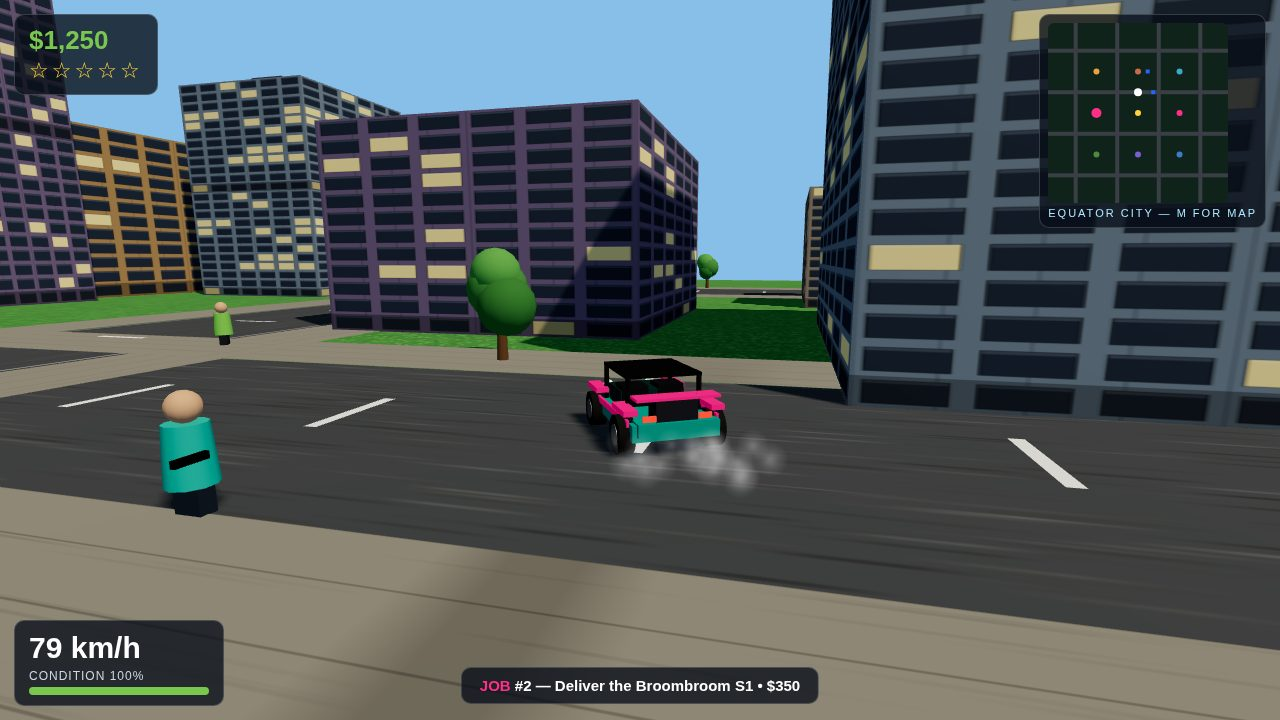
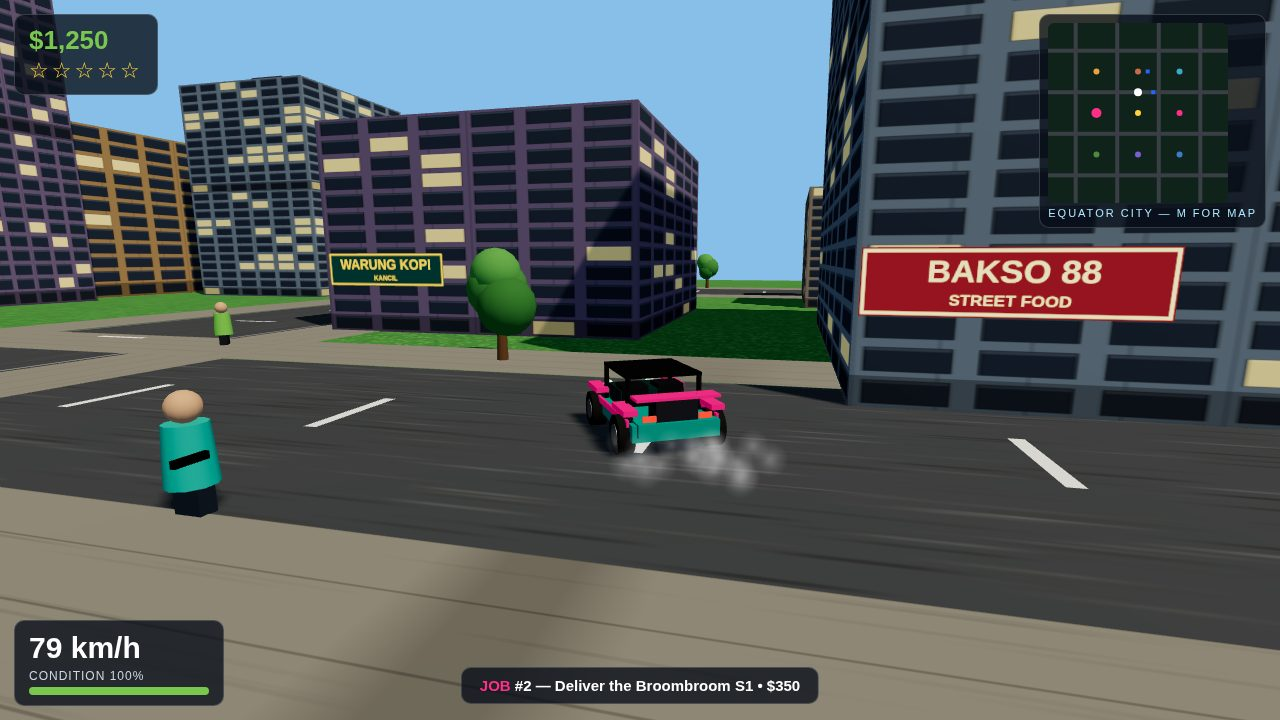
gta6-01 revision-2: R2 lessons — emissive windows, blade neon, real shop signs
- facadeTextures(): shared lit-window grid drawn to colour + emissive
  maps; buildings use emissiveMap (night 0.7 / day 0.08) — windows
  genuinely glow at night instead of relying on ambient light.
- Forced avenue neon (NEON / BAR 24H) now blade signs rotY -PI/2,
  faces turned west toward the night camera — readable frontally.
- Deterministic cover shop signs on REAL building south faces
  (WARUNG KOPI + BAKSO 88), two different buildings, both fully
  in frame; debug proved the first attempt stacked both signs on
  one face at the frame edge. No flips anywhere.
- Scores (full + 300px): cover 9/8.5, start 8/8, night 8.5/8, map 8/8.

diff --git a/game/src/city.js b/game/src/city.js
@@ -2,7 +2,7 @@
 // Grid city, real facades with lit windows, upright shop signs, neon at night,
 // streetlight pools, trees, park + plaza, 9 districts, 7 story jobs.
 import * as THREE from 'three';
-import { asphaltTexture, pavementTexture, grassTexture, facadeTexture, signTexture, neonTexture, lightPoolTexture } from './textures.js';
+import { asphaltTexture, pavementTexture, grassTexture, facadeTextures, signTexture, neonTexture, lightPoolTexture } from './textures.js';
 import { buildVehicle } from './vehicles.js';
 
 export const DISTRICTS = [
@@ -40,16 +40,23 @@ const SHOPS = [
 
 const NEONS = ['NEON', 'BAR 24H', 'KARAOKE', 'RAMEN', 'DISCO', 'HOTEL'];
 
-function building(scene, rng, night, x, z, w, d, h, base) {
-  const tex = facadeTexture(base, rng, night ? 0.55 : 0.14, night);
+function building(scene, rng, night, x, z, w, d, h, base, registry) {
+  const { map: tex, emissive } = facadeTextures(base, rng, night ? 0.55 : 0.14, night);
   tex.wrapS = THREE.RepeatWrapping; tex.wrapT = THREE.RepeatWrapping;
   tex.repeat.set(Math.max(1, Math.round(w / 12)), Math.max(1, Math.round(h / 14)));
-  const side = new THREE.MeshStandardMaterial({ map: tex, roughness: 0.85 });
+  emissive.wrapS = THREE.RepeatWrapping; emissive.wrapT = THREE.RepeatWrapping;
+  emissive.repeat.copy(tex.repeat);
+  // R2 lesson: lit windows need a real emissive map, not just a bright texture.
+  const side = new THREE.MeshStandardMaterial({
+    map: tex, emissiveMap: emissive, emissive: 0xffffff,
+    emissiveIntensity: night ? 0.7 : 0.08, roughness: 0.85,
+  });
   const roof = new THREE.MeshStandardMaterial({ color: 0x565660, roughness: 0.95 });
   const m = new THREE.Mesh(new THREE.BoxGeometry(w, h, d), [side, side, roof, roof, side, side]);
   m.position.set(x, h / 2, z);
   m.castShadow = true; m.receiveShadow = true;
   scene.add(m);
+  if (registry) registry.push({ x, z, w, d, h });
   // rooftop box (AC / water tank) so roofs are not flat slabs
   if (rng.chance(0.7)) {
     const box = new THREE.Mesh(new THREE.BoxGeometry(w * 0.25, 1.2, d * 0.25),
@@ -173,6 +180,7 @@ export function buildCity(scene, rng, night) {
   const trafficSpots = [];
   const pedSpots = [];
   const parked = [];
+  const buildings = [];
   let shopIdx = 0, neonIdx = 0;
   for (const bx of [-60, 0, 60]) {
     for (const bz of [-60, 0, 60]) {
@@ -187,7 +195,7 @@ export function buildCity(scene, rng, night) {
       for (let i = 0; i < n; i++) {
         const w = rng.range(14, 22), d = rng.range(14, 22), h = rng.range(9, 30);
         const x = bx + rng.range(-18, 18), z = bz + rng.range(-18, 18);
-        building(scene, rng, night, x, z, w, d, h, rng.pick(bases));
+        building(scene, rng, night, x, z, w, d, h, rng.pick(bases), buildings);
       }
       // One shop sign per block, on the face toward the nearest road (upright).
       const shop = SHOPS[shopIdx++ % SHOPS.length];
@@ -209,22 +217,46 @@ export function buildCity(scene, rng, night) {
         p.rotation.y = p.position.z > bz ? 0 : Math.PI;
         scene.add(p);
       }
-      // Guaranteed neon on the avenue for the night shot: south face of the
-      // Distrik Neon block, facing the road (and the night camera).
+      // Guaranteed neon on the avenue for the night shot: blade signs jutting
+      // from the south facades, faces turned WEST (-x) toward the night camera
+      // approaching down the avenue (R2 lesson: neon must face the camera —
+      // a sign facing -z reads edge-on and skewed from this angle).
       if (night && bx === 60 && bz === 0) {
         const p = new THREE.Mesh(new THREE.PlaneGeometry(9, 2.2),
           new THREE.MeshBasicMaterial({ map: neonTexture('NEON', '#ff2e88'), transparent: true }));
         p.position.set(62, 4.6, -24.2);
-        p.rotation.y = Math.PI;
+        p.rotation.y = -Math.PI / 2;
         scene.add(p);
         const p2 = new THREE.Mesh(new THREE.PlaneGeometry(8, 2),
           new THREE.MeshBasicMaterial({ map: neonTexture('BAR 24H', '#22e6ff'), transparent: true }));
         p2.position.set(74, 4.2, -24.2);
-        p2.rotation.y = Math.PI;
+        p2.rotation.y = -Math.PI / 2;
         scene.add(p2);
       }
     }
   }
+
+  // Deterministic shop signs for the cover shot, mounted on REAL building
+  // south faces flanking the cover avenue (z = -30). Upright, facing the
+  // camera (rotY 0 = faces +z) — never a -x/-z flip (R2 proved flips change
+  // nothing; facing is what matters). Two DIFFERENT buildings, both inside
+  // the cover frame (|x| <= 25); the sign on the wide face is shifted toward
+  // the camera axis so it is fully in frame, not half-cut at the edge.
+  const pickFace = (nearX, used) => {
+    let best = null, bestScore = Infinity;
+    for (const b of buildings) {
+      if (used && b.x === used.x && b.z === used.z) continue;
+      const face = b.z + b.d / 2; // south face, toward the avenue
+      if (face > -24.5 || face < -50 || Math.abs(b.x) > 25) continue;
+      const score = Math.abs(b.x - nearX) + Math.abs(face + 30) * 2;
+      if (score < bestScore) { bestScore = score; best = { x: b.x, z: b.z, w: b.w, face }; }
+    }
+    return best;
+  };
+  const f1 = pickFace(-14, null);
+  if (f1) shopSign(scene, Math.max(f1.x - 5, f1.x - f1.w / 2 + 3.6), 3.4, f1.face + 0.3, 0, SHOPS[0]);
+  const f2 = pickFace(16, f1);
+  if (f2) shopSign(scene, Math.max(f2.x - 5, f2.x - f2.w / 2 + 3.6), 3.4, f2.face + 0.3, 0, SHOPS[5]);
 
   // Plaza Merdeka fountain.
   const basin = new THREE.Mesh(new THREE.CylinderGeometry(7, 7.5, 1, 24),

diff --git a/game/src/textures.js b/game/src/textures.js
@@ -50,35 +50,48 @@ export function grassTexture(rng) {
   });
 }
 
-// Building facade: window grid. litRatio = fraction of windows glowing warm.
-// Day: mostly dark glass, few lit. Night: most lit warm yellow.
-export function facadeTexture(base, rng, litRatio, night) {
-  return canvasTex(256, 512, (g, w, h) => {
-    g.fillStyle = base; g.fillRect(0, 0, w, h);
-    // subtle vertical panel shading
-    for (let x = 0; x < w; x += 32) {
-      g.fillStyle = 'rgba(0,0,0,0.08)'; g.fillRect(x, 0, 2, h);
-    }
-    const cols = 6, rows = 12;
+// Building facade: window grid, drawn ONCE into two canvases sharing the same
+// lit-window pattern — colour map + emissive map (black except lit windows).
+// R2 lesson: swapping the night texture alone is NOT enough; windows need a
+// real emissive map or they stay dark.
+export function facadeTextures(base, rng, litRatio, night) {
+  const cols = 6, rows = 12;
+  const lit = [];
+  for (let r = 0; r < rows; r++) {
+    lit.push([]);
+    for (let c = 0; c < cols; c++) lit[r].push(rng.chance(litRatio));
+  }
+  const drawWindows = (g, w, h, emissiveOnly) => {
     const cw = w / cols, ch = h / rows;
     for (let r = 0; r < rows; r++) {
       for (let c = 0; c < cols; c++) {
         const x = c * cw + 5, y = r * ch + 6, ww = cw - 10, hh = ch - 12;
-        if (rng.chance(litRatio)) {
+        if (lit[r][c]) {
           g.fillStyle = night ? rng.pick(['#ffd97a', '#ffbe4d', '#ffe9a8', '#ffb347']) : '#ffe6a0';
           g.fillRect(x, y, ww, hh);
-          g.fillStyle = 'rgba(255,255,255,0.25)'; g.fillRect(x, y, ww, 3);
-        } else {
+          if (!emissiveOnly) { g.fillStyle = 'rgba(255,255,255,0.25)'; g.fillRect(x, y, ww, 3); }
+        } else if (!emissiveOnly) {
           g.fillStyle = night ? '#1c2433' : '#2b3a4d';
           g.fillRect(x, y, ww, hh);
           g.fillStyle = 'rgba(255,255,255,0.18)'; g.fillRect(x, y, ww, 4);
         }
-        g.strokeStyle = 'rgba(0,0,0,0.35)'; g.strokeRect(x, y, ww, hh);
+        if (!emissiveOnly) { g.strokeStyle = 'rgba(0,0,0,0.35)'; g.strokeRect(x, y, ww, hh); }
       }
     }
-    // ground-floor shop band
+  };
+  const map = canvasTex(256, 512, (g, w, h) => {
+    g.fillStyle = base; g.fillRect(0, 0, w, h);
+    for (let x = 0; x < w; x += 32) {
+      g.fillStyle = 'rgba(0,0,0,0.08)'; g.fillRect(x, 0, 2, h);
+    }
+    drawWindows(g, w, h, false);
     g.fillStyle = 'rgba(0,0,0,0.25)'; g.fillRect(0, h - 42, w, 42);
   });
+  const emissive = canvasTex(256, 512, (g, w, h) => {
+    g.fillStyle = '#000000'; g.fillRect(0, 0, w, h);
+    drawWindows(g, w, h, true);
+  });
+  return { map, emissive };
 }
 
 // Shop sign — text drawn upright, used on a plane facing the street.
